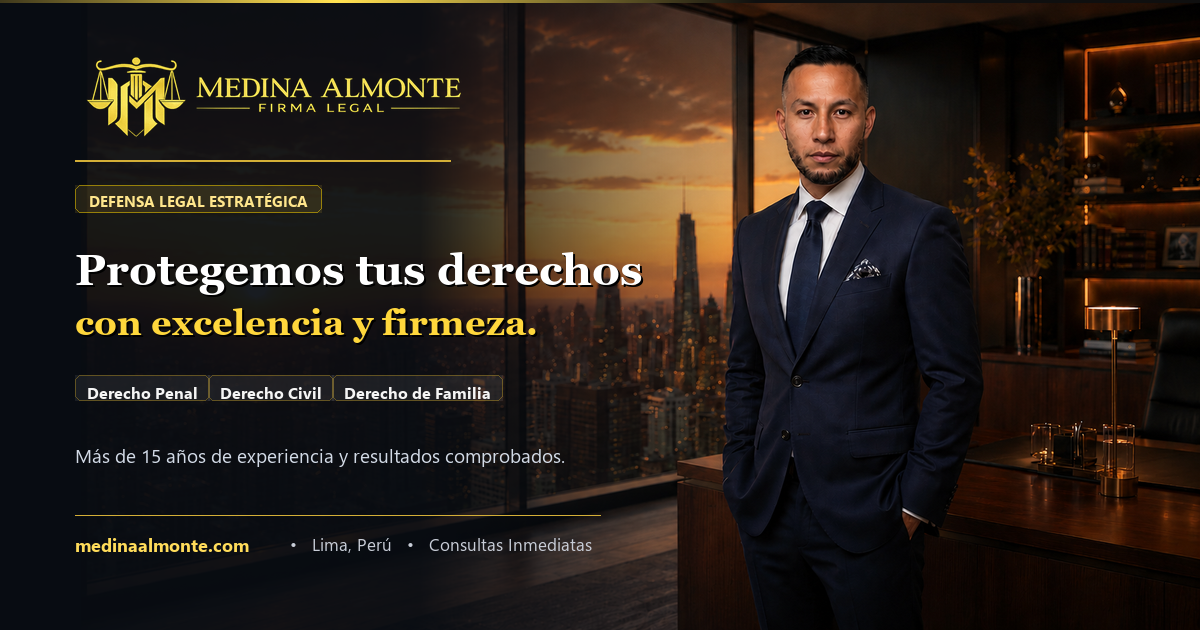
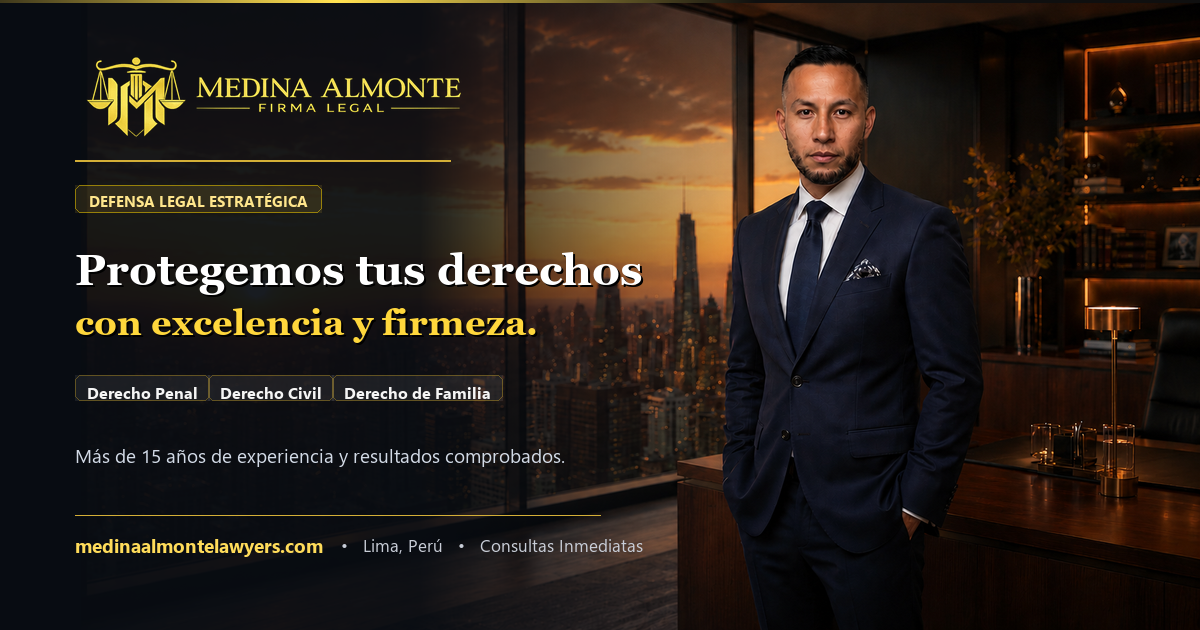
feat: ultra professional Open Graph images optimized for WhatsApp and social media (124KB JPEG, 1200x630)

Changed region(s): [[0.0617, 0.8444, 0.5242, 0.8746]]

diff --git a/src/app/layout.tsx b/src/app/layout.tsx
@@ -45,11 +45,12 @@ export const metadata: Metadata = {
     url: "https://medinaalmontelawyers.com",
     images: [
       {
-        url: "/og-image.png",
+        url: "https://medinaalmontelawyers.com/og-image.jpg",
+        secureUrl: "https://medinaalmontelawyers.com/og-image.jpg",
         width: 1200,
         height: 630,
-        alt: "MEDINA ALMONTE — Lawyers Firm - Abogados en Perú",
-        type: "image/png",
+        alt: "MEDINA ALMONTE — Lawyers Firm | Abogados en Perú",
+        type: "image/jpeg",
       },
     ],
   },
@@ -58,7 +59,7 @@ export const metadata: Metadata = {
     title: "MEDINA ALMONTE — Lawyers Firm | Abogados en Perú",
     description:
       "Defensa legal estratégica en Derecho Civil, Penal y de Familia. Protegemos tus derechos con excelencia y resultados comprobados.",
-    images: ["/og-image.png"],
+    images: ["https://medinaalmontelawyers.com/og-image.jpg"],
   },
   robots: {
     index: true,

diff --git a/src/app/faq/page.tsx b/src/app/faq/page.tsx
@@ -21,6 +21,16 @@ export const metadata: Metadata = {
     description:
       "Resuelve tus dudas sobre nuestros servicios legales. Ofrecemos consultas legales ilimitadas luego de la contratación profesional.",
     url: "https://medinaalmontelawyers.com/faq",
+    images: [
+      {
+        url: "https://medinaalmontelawyers.com/og-image.jpg",
+        secureUrl: "https://medinaalmontelawyers.com/og-image.jpg",
+        width: 1200,
+        height: 630,
+        alt: "MEDINA ALMONTE — Lawyers Firm | Preguntas Frecuentes",
+        type: "image/jpeg",
+      },
+    ],
   },
 };
 

diff --git a/src/app/contacto/page.tsx b/src/app/contacto/page.tsx
@@ -22,6 +22,16 @@ export const metadata: Metadata = {
     description:
       "Escríbenos y recibe asesoría legal profesional. Ofrecemos consultas legales ilimitadas luego de la contratación profesional.",
     url: "https://medinaalmontelawyers.com/contacto",
+    images: [
+      {
+        url: "https://medinaalmontelawyers.com/og-image.jpg",
+        secureUrl: "https://medinaalmontelawyers.com/og-image.jpg",
+        width: 1200,
+        height: 630,
+        alt: "MEDINA ALMONTE — Lawyers Firm | Contacto",
+        type: "image/jpeg",
+      },
+    ],
   },
 };
 

diff --git a/generate_og_final.py b/generate_og_final.py
@@ -1,0 +1,124 @@
+import os
+from PIL import Image, ImageDraw, ImageFont
+
+W, H = 1200, 630
+
+def build_og_card():
+    # 1. Base image: HERO FONDO.png (sunset skyline + attorney)
+    bg_raw = Image.open('HERO FONDO.png').convert('RGBA')
+    scale = H / bg_raw.height
+    new_w = int(bg_raw.width * scale)
+    bg = bg_raw.resize((new_w, H), Image.Resampling.LANCZOS)
+    x_crop = bg.width - W
+    canvas = bg.crop((x_crop, 0, x_crop + W, H)).copy()
+
+    # 2. Dark gradient overlay on the left 60% for extreme contrast and clarity
+    grad = Image.new('RGBA', (W, H), (0, 0, 0, 0))
+    for x in range(W):
+        if x < 420:
+            alpha = 238
+        elif x < 760:
+            factor = (x - 420) / 340
+            alpha = int(238 * (1 - factor))
+        else:
+            alpha = 0
+        for y in range(H):
+            grad.putpixel((x, y), (8, 12, 18, alpha))
+            
+    canvas = Image.alpha_composite(canvas, grad)
+    draw = ImageDraw.Draw(canvas)
+
+    # 3. Gold accent line at very top
+    for x in range(W):
+        t = x / W
+        intensity = max(0, 1 - abs(t - 0.28) / 0.35)
+        r = int(245 * intensity + 15)
+        g = int(212 * intensity + 15)
+        b = int(67 * intensity + 15)
+        draw.point((x, 0), fill=(r, g, b, 240))
+        draw.point((x, 1), fill=(r, g, b, 200))
+        draw.point((x, 2), fill=(r, g, b, 120))
+
+    # 4. Official Brand Logo
+    logo = Image.open('logo oficial.png').convert('RGBA')
+    logo_w = 400
+    logo_h = int(logo.height * (logo_w / logo.width))
+    logo = logo.resize((logo_w, logo_h), Image.Resampling.LANCZOS)
+    canvas.paste(logo, (75, 55), logo)
+
+    # 5. Gold Separator Line
+    draw.line([(75, 160), (450, 160)], fill=(212, 175, 55, 120), width=2)
+
+    # 6. Badge: DEFENSA LEGAL ESTRATÉGICA
+    font_badge = ImageFont.truetype('C:/Windows/Fonts/segoeuib.ttf', 15)
+    badge_text = 'DEFENSA LEGAL ESTRATÉGICA'
+    bbox = font_badge.getbbox(badge_text)
+    bw, bh = bbox[2] - bbox[0], bbox[3] - bbox[1]
+    
+    badge_x, badge_y = 75, 185
+    pill = Image.new('RGBA', (bw + 28, bh + 14), (212, 175, 55, 35))
+    p_draw = ImageDraw.Draw(pill)
+    p_draw.rounded_rectangle([0, 0, bw + 27, bh + 13], radius=6, outline=(255, 215, 0, 140), width=1)
+    canvas.paste(pill, (badge_x, badge_y), pill)
+    draw.text((badge_x + 14, badge_y + 5), badge_text, font=font_badge, fill=(255, 230, 140, 255))
+
+    # 7. Main Title & Value Headline (Georgia Bold)
+    font_h1 = ImageFont.truetype('C:/Windows/Fonts/georgiab.ttf', 44)
+    font_h2 = ImageFont.truetype('C:/Windows/Fonts/georgiab.ttf', 36)
+    
+    # Shadow + Text
+    draw.text((77, 246), 'Protegemos tus derechos', font=font_h1, fill=(0, 0, 0, 200))
+    draw.text((75, 244), 'Protegemos tus derechos', font=font_h1, fill=(255, 255, 255, 255))
+
+    draw.text((77, 303), 'con excelencia y firmeza.', font=font_h2, fill=(0, 0, 0, 200))
+    draw.text((75, 301), 'con excelencia y firmeza.', font=font_h2, fill=(255, 215, 60, 255)) # 24K Pure Gold tone
+
+    # 8. Practice Area Capsules
+    font_areas = ImageFont.truetype('C:/Windows/Fonts/segoeuib.ttf', 16)
+    areas = ['Derecho Penal', 'Derecho Civil', 'Derecho de Familia']
+    ax = 75
+    ay = 375
+    for area in areas:
+        abox = font_areas.getbbox(area)
+        aw, ah = abox[2] - abox[0], abox[3] - abox[1]
+        area_pill = Image.new('RGBA', (aw + 24, ah + 14), (255, 255, 255, 18))
+        ap_draw = ImageDraw.Draw(area_pill)
+        ap_draw.rounded_rectangle([0, 0, aw + 23, ah + 13], radius=6, outline=(212, 175, 55, 110), width=1)
+        canvas.paste(area_pill, (ax, ay), area_pill)
+        draw.text((ax + 12, ay + 6), area, font=font_areas, fill=(245, 245, 245, 255))
+        ax += aw + 22
+
+    # 9. Slogan & Credibility statement
+    font_sub = ImageFont.truetype('C:/Windows/Fonts/segoeui.ttf', 19)
+    draw.text((75, 442), 'Más de 15 años de experiencia y resultados comprobados.', font=font_sub, fill=(210, 218, 230, 245))
+
+    # 10. Bottom Information Bar: Web + Location + Call to Action
+    font_foot_bold = ImageFont.truetype('C:/Windows/Fonts/segoeuib.ttf', 19)
+    font_foot = ImageFont.truetype('C:/Windows/Fonts/segoeui.ttf', 17)
+    
+    draw.line([(75, 515), (600, 515)], fill=(212, 175, 55, 90), width=1)
+    
+    # Official Domain medinaalmontelawyers.com in Pure Gold
+    domain_text = 'medinaalmontelawyers.com'
+    draw.text((75, 532), domain_text, font=font_foot_bold, fill=(255, 220, 90, 255))
+    
+    # Location and Call to action
+    bbox_d = font_foot_bold.getbbox(domain_text)
+    dw = bbox_d[2] - bbox_d[0]
+    draw.text((75 + dw + 18, 533), '•   Lima, Perú   •   Consultas Inmediatas', font=font_foot, fill=(200, 205, 215, 220))
+
+    # 11. Save as JPEG (optimized specifically for WhatsApp and Social Media < 300KB)
+    rgb_img = canvas.convert('RGB')
+    rgb_img.save('public/og-image.jpg', 'JPEG', quality=88, optimize=True)
+    rgb_img.save('public/og-whatsapp.jpg', 'JPEG', quality=88, optimize=True)
+
+    # 12. Save as PNG (optimized)
+    rgb_img.save('public/og-image.png', 'PNG', optimize=True)
+
+    print('Generated successfully:')
+    print(f"public/og-image.jpg: {os.path.getsize('public/og-image.jpg') / 1024:.1f} KB")
+    print(f"public/og-whatsapp.jpg: {os.path.getsize('public/og-whatsapp.jpg') / 1024:.1f} KB")
+    print(f"public/og-image.png: {os.path.getsize('public/og-image.png') / 1024:.1f} KB")
+
+if __name__ == '__main__':
+    build_og_card()
